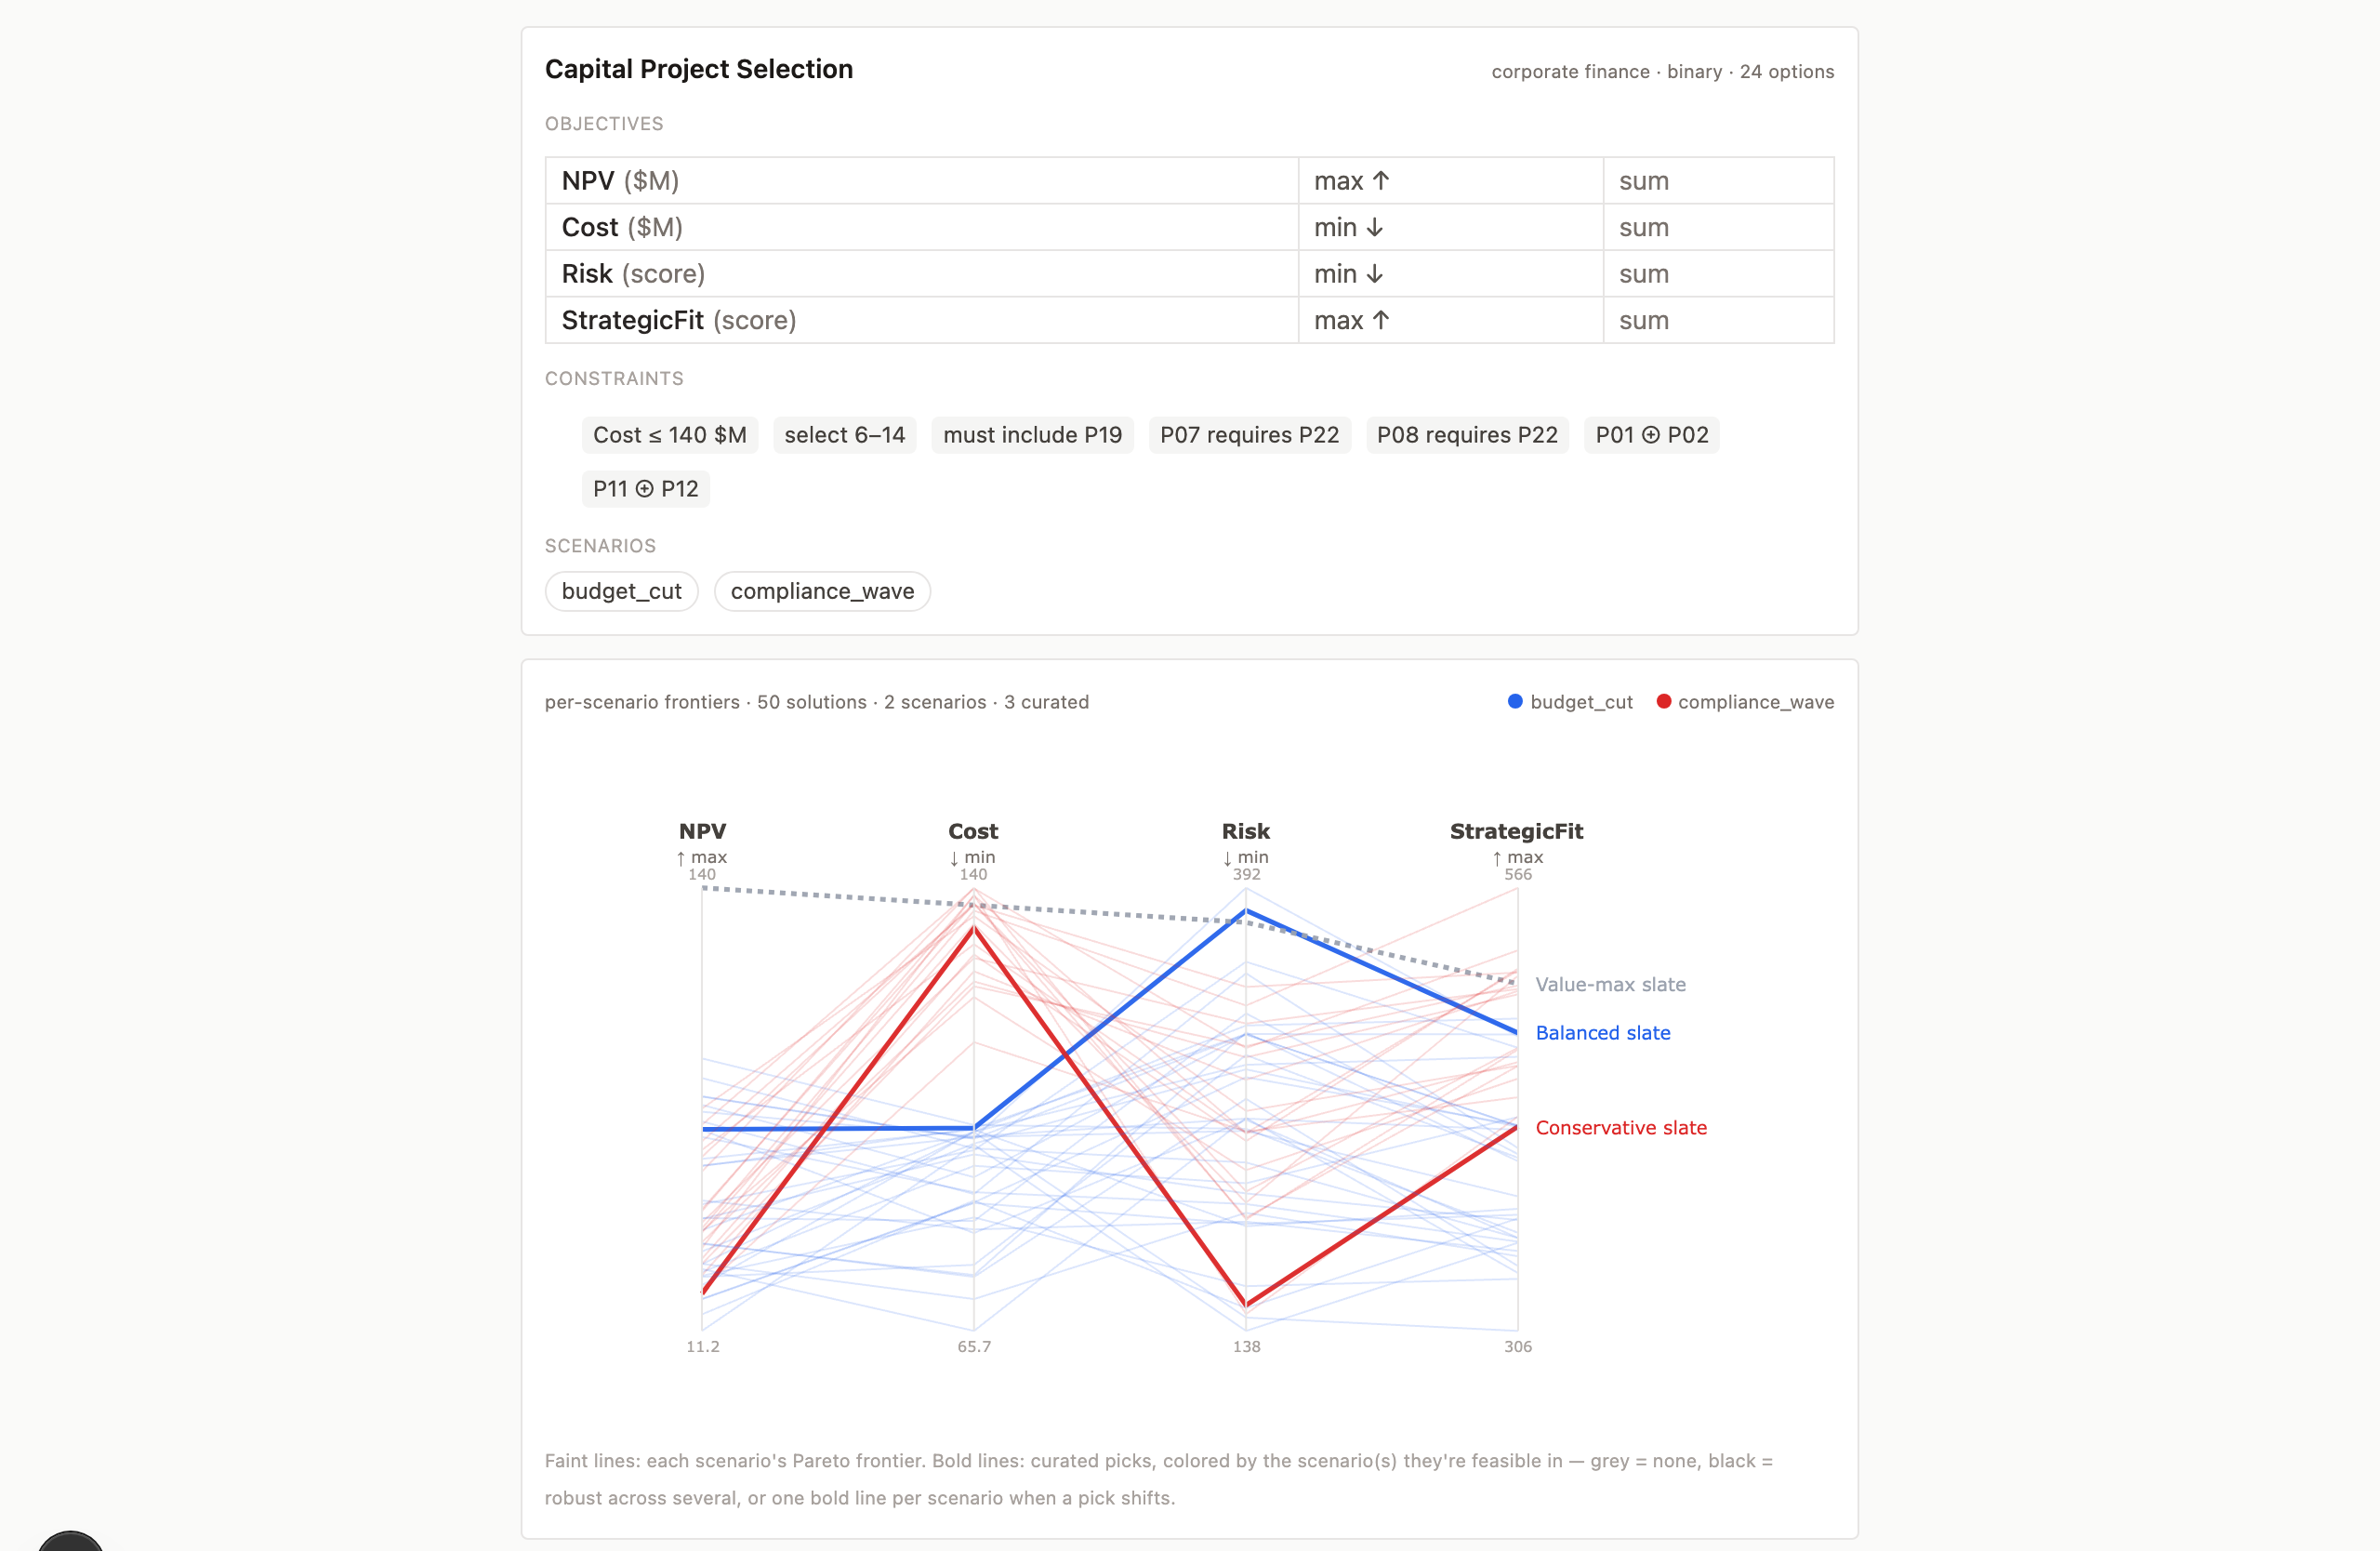
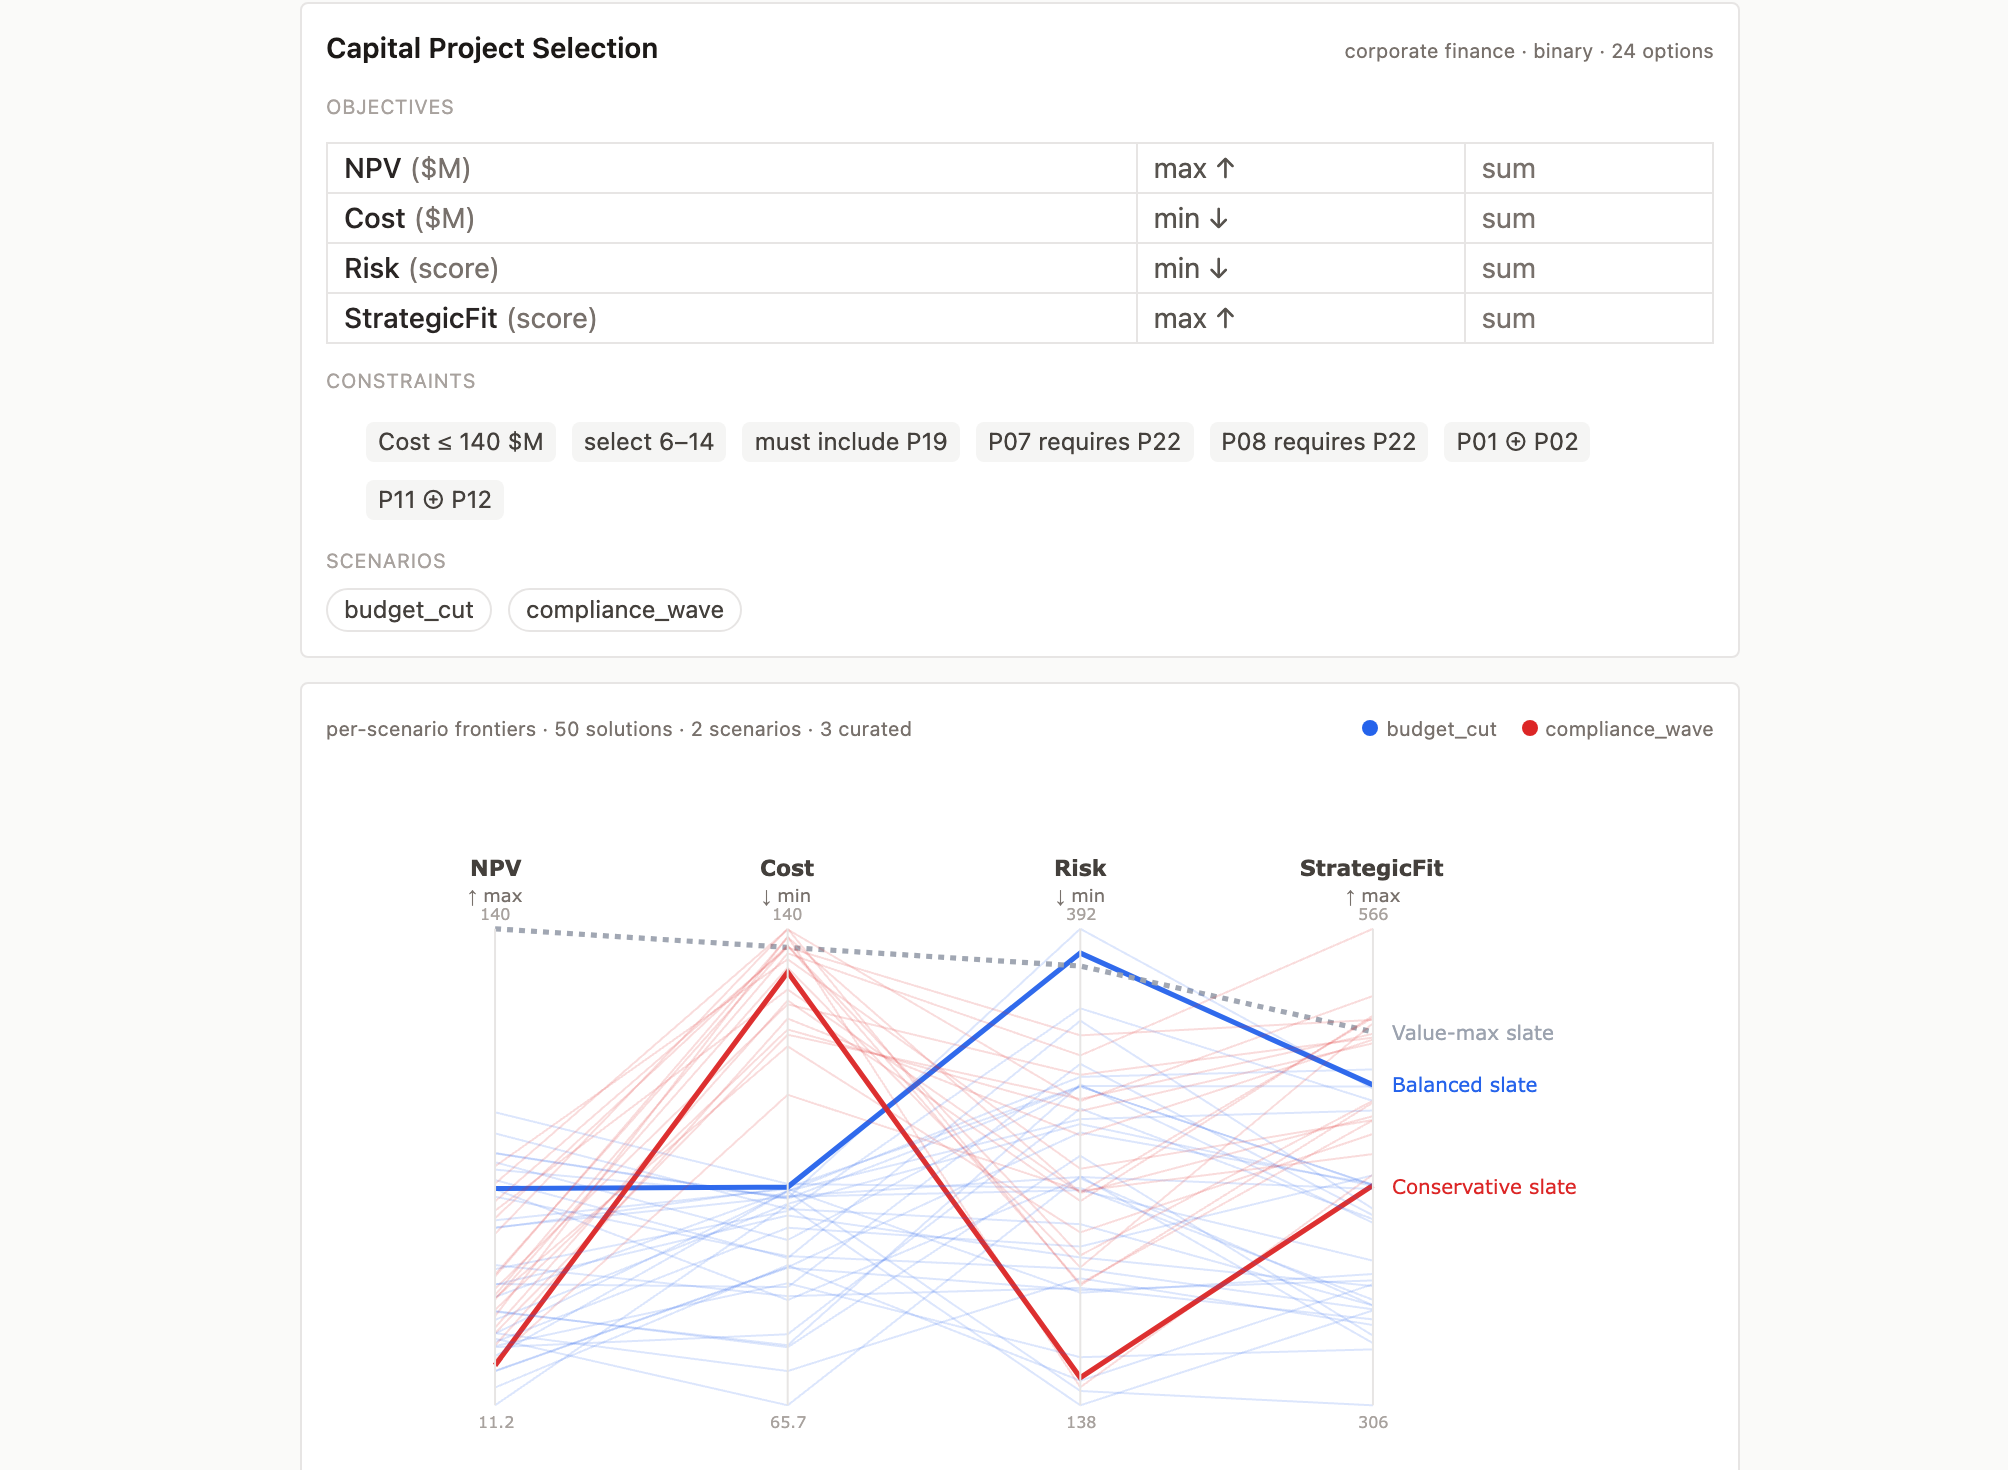
readme updates

diff --git a/README.md b/README.md
@@ -16,17 +16,17 @@ The design is **explainable, governable optimization**: the engine owns the *det
 
 ## Examples
 
-Two [worked examples](examples/) rendered in the web UI — the agent frames the decision, the engine solves it, and the result comes back as an interactive chart with a plain-language read of the tradeoffs.
+Several [worked examples](examples/) are included for you to learn from and adapt. Select results displayed below. 
 
 <table>
 <tr>
 <td width="50%" valign="top">
 <img src="assets/example-portfolio.png" alt="ETF efficient frontier with a plain-language tradeoff read" /><br/>
-<sub><b>ETF portfolio</b> — a Return × Volatility efficient frontier (the classic reverse-J), with the tradeoff read in plain language and curated picks marked.</sub>
+<sub>Investment portfolio</sub>
 </td>
 <td width="50%" valign="top">
 <img src="assets/example-capital.png" alt="Capital project formulation and per-scenario frontiers" /><br/>
-<sub><b>Capital project selection</b> — a binary MILP: the structured formulation (typed objectives, real constraints, scenarios) over per-scenario tradeoff frontiers, with curated picks.</sub>
+<sub>Capital project selection</sub>
 </td>
 </tr>
 </table>
@@ -63,8 +63,8 @@ Skills auto-inject at workflow transitions, so domain rigor — how to classify 
 
 Two ways to use Frontier:
 
-- **Web UI** — a browser chat shell over the engine, with interactive charts (2D/3D scatter and parallel coordinates that adapt to objective count, per-scenario overlays) and curate-straight-from-the-chart. A hosted instance is available to beta users; or run/deploy your own (see [`ui/`](ui/) and [Deploy your own](#deploy-your-own)).
-- **MCP client** — connect any MCP-compatible client (Claude Code, Claude Desktop, claude.ai, Cursor, Codex). The hosted beta engine (`https://frontier-592q.onrender.com/sse`) is **gated by a bearer token** — ask the operator for `FRONTIER_TOKEN`; or [self-host](#self-host) your own (ungated by default).
+- **Web UI** — a browser chat shell over the engine, with interactive charts (2D/3D scatter and parallel coordinates that adapt to objective count, per-scenario overlays) and curate-straight-from-the-chart. A hosted instance is available to beta users; or run/deploy your own (requires API key; see [`ui/`](ui/) and [Deploy your own](#deploy-your-own))
+- **MCP client** — connect any MCP-compatible client (Claude Code, Claude Desktop, claude.ai, Cursor, Codex). The hosted beta engine (`https://frontier-592q.onrender.com/sse`) is gated by a token — ask @cafzal for `FRONTIER_TOKEN`; or [self-host](#self-host) your own (ungated by default).
 
 The MCP-client snippets below assume the hosted engine.
 